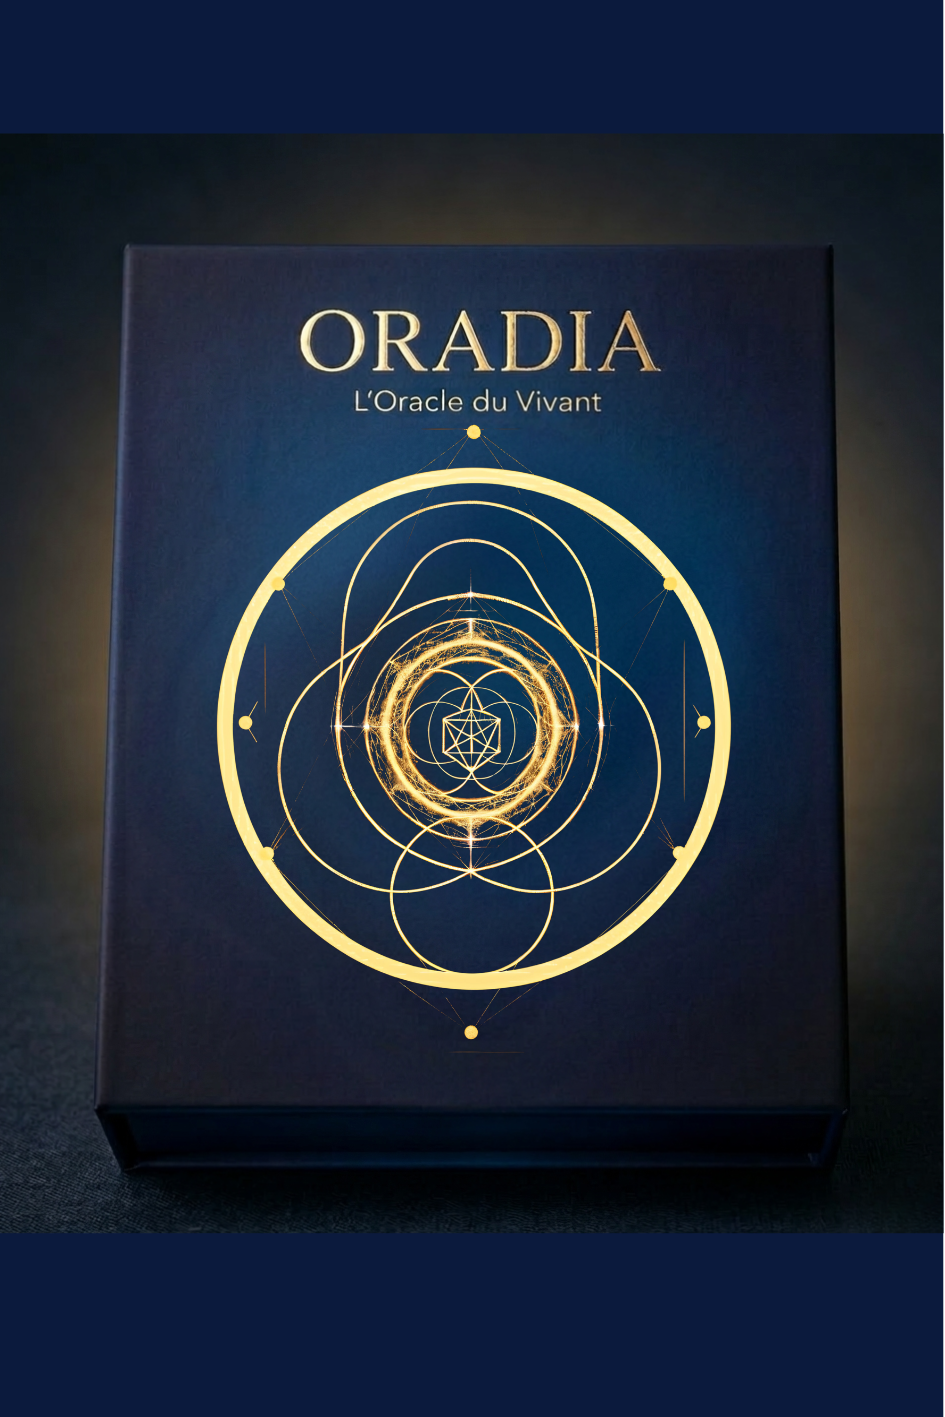
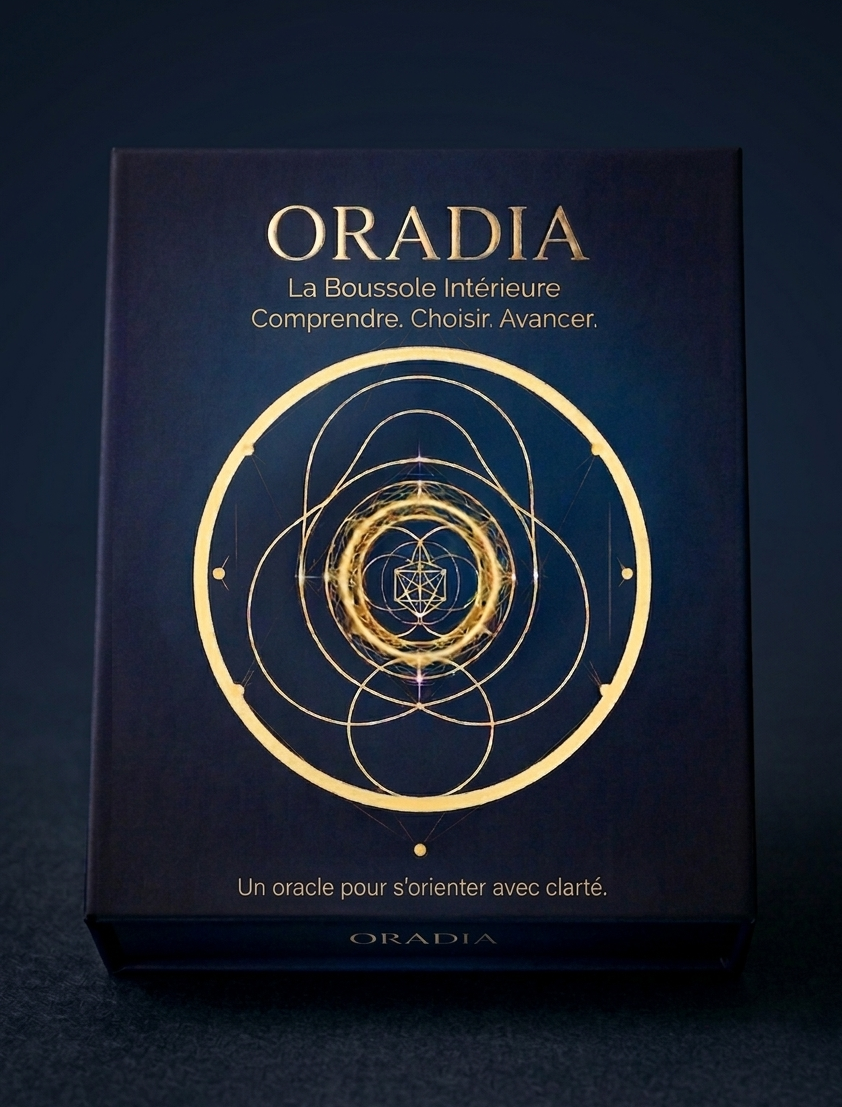
maj images et titre

diff --git a/precommande-oracle.html b/precommande-oracle.html
@@ -7,7 +7,7 @@
     <!-- SEO Meta Tags -->
     <title>Précommande Oracle Oradia - Édition Limitée 2026</title>
     <meta name="description" content="Précommandez l'Oracle Oradia physique. Première production basée sur les précommandes, 64 cartes vibratoires, livret guidé. Tarifs de 38€ à 52€. Livraison Août-Septembre 2026.">
-    <meta name="keywords" content="précommande oracle, oracle physique, Oradia, première production, cartes vibratoires, spiritualité, développement personnel, tirage de cartes, oracle du vivant">
+    <meta name="keywords" content="précommande oracle, oracle physique, Oradia, première production, cartes vibratoires, spiritualité, développement personnel, tirage de cartes, boussole intérieure">
     <meta name="author" content="Sophie Oradia" />
     <meta name="robots" content="index, follow" />
     <meta name="language" content="fr" />
@@ -15,7 +15,7 @@
     <!-- Open Graph / Facebook -->
     <meta property="og:type" content="website" />
     <meta property="og:url" content="https://oradia.fr/precommande-oracle.html" />
-    <meta property="og:title" content="Précommande ORADIA – L'Oracle du Vivant | Édition Limitée" />
+    <meta property="og:title" content="Précommande ORADIA – La Boussole Intérieure | Édition Limitée" />
     <meta property="og:description" content="Précommandez l'oracle physique ORADIA. Première production basée sur les précommandes, 64 cartes illustrées.">
     <meta property="og:image" content="https://oradia.fr/images/oracle-precommande.jpg" />
     <meta property="og:image:width" content="1200" />
@@ -26,7 +26,7 @@
     <!-- Twitter -->
     <meta property="twitter:card" content="summary_large_image" />
     <meta property="twitter:url" content="https://oradia.fr/precommande-oracle.html" />
-    <meta property="twitter:title" content="Précommande ORADIA – L'Oracle du Vivant | Édition Limitée" />
+    <meta property="twitter:title" content="Précommande ORADIA – La Boussole Intérieure | Édition Limitée" />
     <meta property="twitter:description" content="Précommandez l'oracle physique ORADIA. Première production basée sur les précommandes.">
     <meta property="twitter:image" content="https://oradia.fr/images/oracle-precommande.jpg" />
     
@@ -291,8 +291,13 @@
                 <h1 class="cormorant text-5xl md:text-7xl font-bold gold-gradient mb-6 text-center leading-tight">
                     <span class="block tracking-wide">ORADIA</span>
                     <span class="block w-16 md:w-20 h-[2px] bg-[#D4AF37] mx-auto my-3 md:my-4 opacity-80"></span>
-                    <span class="block tracking-wide">L'ORACLE DU VIVANT</span>
+                    <span class="block tracking-wide">LA BOUSSOLE INTÉRIEURE</span>
                 </h1>
+                
+                <!-- Baseline -->
+                <p class="text-xl md:text-2xl text-light-gold mb-4 leading-relaxed max-w-3xl mx-auto">
+                    Comprendre. Choisir. Avancer.
+                </p>
                 
                 <!-- Description -->
                 <p class="text-xl md:text-2xl text-light-gold mb-6 leading-relaxed max-w-3xl mx-auto">

diff --git a/index.html b/index.html
@@ -3725,12 +3725,17 @@ header { position: relative; overflow: visible; }        /* garantit que le drop
             
             <!-- Sous-titre -->
             <p class="cormorant text-xl sm:text-2xl md:text-3xl lg:text-4xl xl:text-5xl text-gold mb-8 sm:mb-8 leading-tight">
-                L'Oracle du Vivant
+                La Boussole Intérieure
             </p>
             
-            <!-- Accroche -->
-            <p class="lora text-xl md:text-2xl text-light-gold/90 max-w-2xl sm:max-w-3xl mx-auto leading-relaxed mb-8 sm:mb-12">
-                "Un oracle vivant qui puise dans la sagesse des cartes pour éclairer votre chemin intérieur."
+            <!-- Baseline -->
+            <p class="lora text-xl md:text-2xl text-light-gold/90 max-w-2xl sm:max-w-3xl mx-auto leading-relaxed mb-6 sm:mb-8">
+                Comprendre. Choisir. Avancer.
+            </p>
+            
+            <!-- Mention secondaire -->
+            <p class="lora text-lg md:text-xl text-light-gold/70 max-w-2xl mx-auto leading-relaxed mb-8 sm:mb-12">
+                Un oracle pour s'orienter avec clarté.
             </p>
             
             <!-- 2 CTA côte à côte -->
@@ -5097,7 +5102,7 @@ header { position: relative; overflow: visible; }        /* garantit que le drop
       <div class="text-center mb-16">
         <h2 class="cormorant text-4xl md:text-5xl font-bold mb-6 gold-gradient">Ils ont osé Oradia</h2>
         <p class="text-xl text-light-gold max-w-4xl mx-auto leading-relaxed">
-          Découvrez les expériences transformantes de ceux qui ont fait confiance à l'oracle du vivant.
+          Découvrez les expériences transformantes de ceux qui ont fait confiance à leur boussole intérieure.
         </p>
       </div>
 
@@ -5511,7 +5516,7 @@ header { position: relative; overflow: visible; }        /* garantit que le drop
 
 
 
-        <h2 class="cormorant text-5xl md:text-6xl font-bold gold-gradient mb-6">ORADIA - L'Oracle du Vivant</h2>
+        <h2 class="cormorant text-5xl md:text-6xl font-bold gold-gradient mb-6">ORADIA - La Boussole Intérieure</h2>
 
 
 
@@ -5787,7 +5792,7 @@ header { position: relative; overflow: visible; }        /* garantit que le drop
 
 
 
-                    alt="Coffret Oradia - Oracle du Vivant"
+                    alt="Coffret Oradia - La Boussole Intérieure"
 
 
 

diff --git a/pelerin.html b/pelerin.html
@@ -8,7 +8,7 @@
 
   <meta name="viewport" content="width=device-width, initial-scale=1, minimum-scale=1, maximum-scale=5" />
 
-  <title>Tirage Pèlerin Gratuit - Oradia | Oracle du Vivant</title>
+  <title>Tirage Pèlerin Gratuit - Oradia | La Boussole Intérieure</title>
   <meta name="description" content="Tirage de cartes gratuit avec l'Oracle Oradia. Découvrez les 4 cartes qui révèlent vos émotions, besoins, transmutations et mémoire cosmique. Guidance spirituelle accessible à tous.">
   <meta name="keywords" content="tirage gratuit, oracle gratuit, cartes divinatoires, spiritualité, développement personnel, guidance, émotions, transmutation, Oradia">
 

diff --git a/member/profile.html b/member/profile.html
@@ -700,7 +700,7 @@
       <div class="grid grid-cols-1 md:grid-cols-4 gap-8 mb-8">
         <div>
           <h4 class="cormorant text-xl text-gold mb-4">ORADIA</h4>
-          <p class="text-light-gold/70 mb-4">L'Oracle du Vivant</p>
+          <p class="text-light-gold/70 mb-4">La Boussole Intérieure</p>
           <div class="flex space-x-4">
             <a href="https://facebook.com" class="text-light-gold/60 hover:text-gold transition"><i class="fab fa-facebook"></i></a>
             <a href="https://instagram.com/oradia_oracle" class="text-light-gold/60 hover:text-gold transition"><i class="fab fa-instagram"></i></a>

diff --git a/a-propos.html b/a-propos.html
@@ -459,7 +459,7 @@ button, .btn-gold, .btn-outline-gold, a.btn-gold, a.btn-outline-gold{
           À Propos d'Oradia
         </h1>
         <p class="hero-subtitle text-xl md:text-2xl text-light-gold mb-8 max-w-3xl text-left">
-          Découvrez l'histoire et la vision de l'Oracle du Vivant
+          Découvrez l'histoire et la vision de la Boussole Intérieure
         </p>
       </div>
     </div>

diff --git a/emails/templates/precommande-confirmation.html b/emails/templates/precommande-confirmation.html
@@ -196,7 +196,7 @@
         <!-- Header -->
         <div class="header">
             <img src="https://your-domain.com/images/logo-hd-v2.jpeg" alt="ORADIA" class="logo">
-            <h1 class="title">ORADIA – L'Oracle du Vivant</h1>
+            <h1 class="title">ORADIA – La Boussole Intérieure</h1>
         </div>
         
         <!-- Content -->

diff --git a/README.md b/README.md
@@ -1,8 +1,6 @@
-# 🌟 ORADIA - L'Oracle du Vivant
+# 🌟 ORADIA - La Boussole Intérieure
 
-## 📋 Description
-
-ORADIA est un oracle divinatoire moderne qui puise dans la sagesse des cartes pour offrir guidance et introspection. Conçu comme un pont entre la tradition des oracles et nos quêtes contemporaines de sens.
+## Robots.txt pour ORADIA - La Boussole Intérieureatoire moderne qui puise dans la sagesse des cartes pour offrir guidance et introspection. Conçu comme un pont entre la tradition des oracles et nos quêtes contemporaines de sens.
 
 ### 🎯 Mission
 
